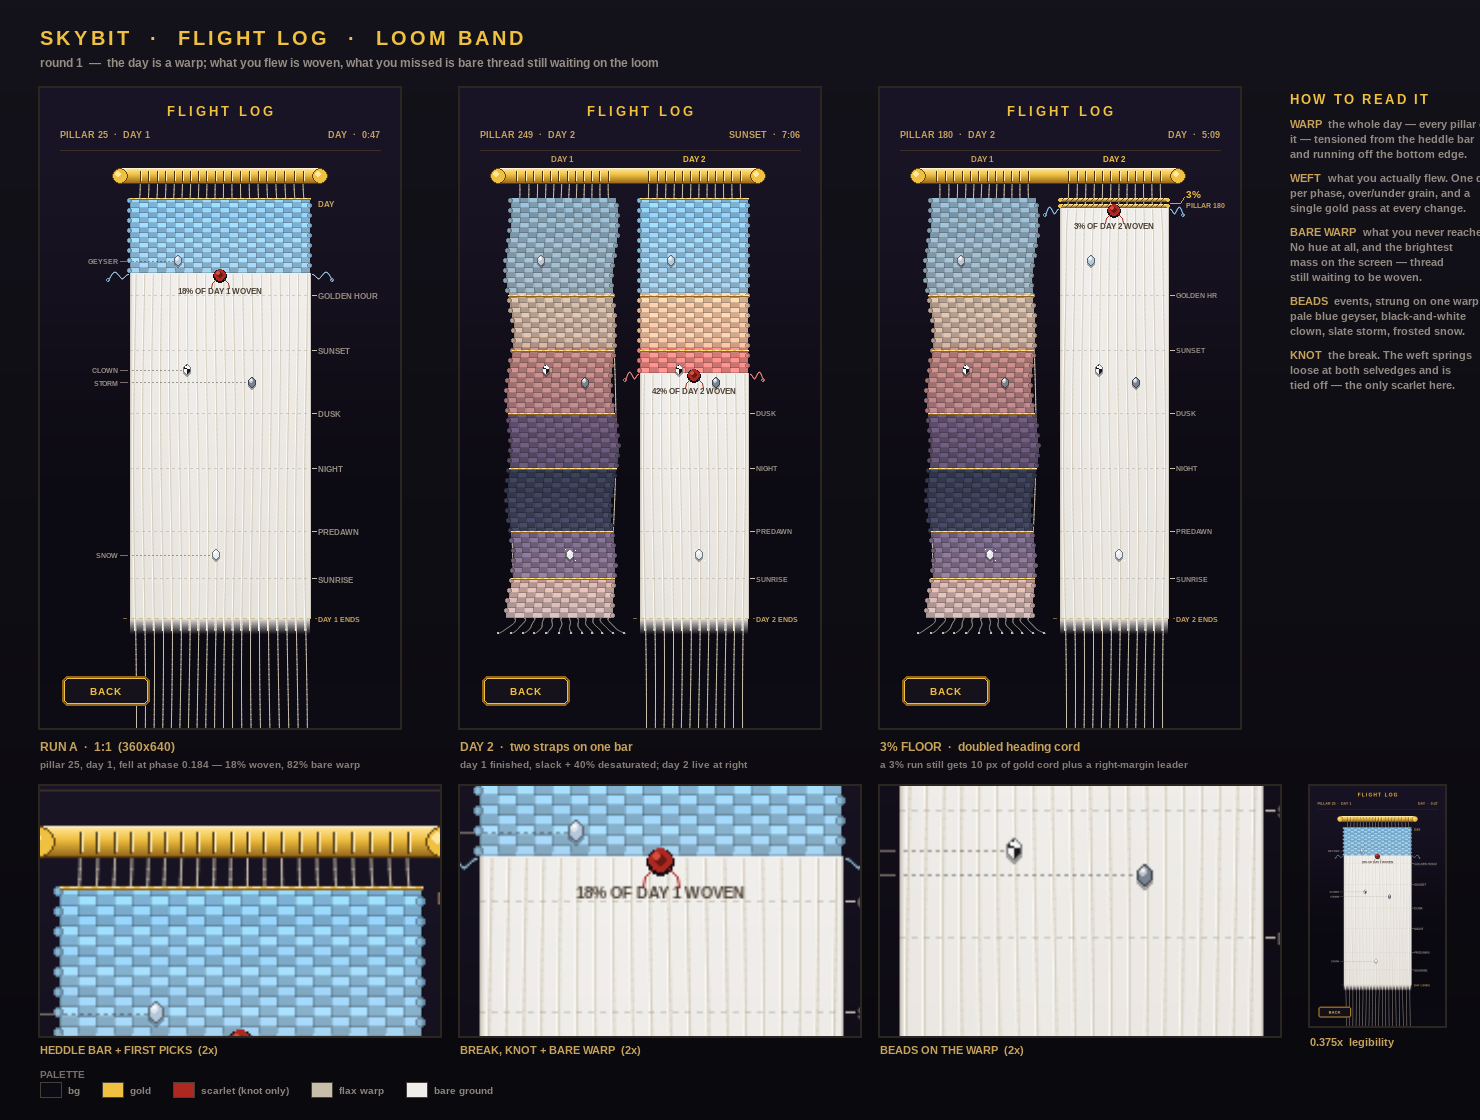
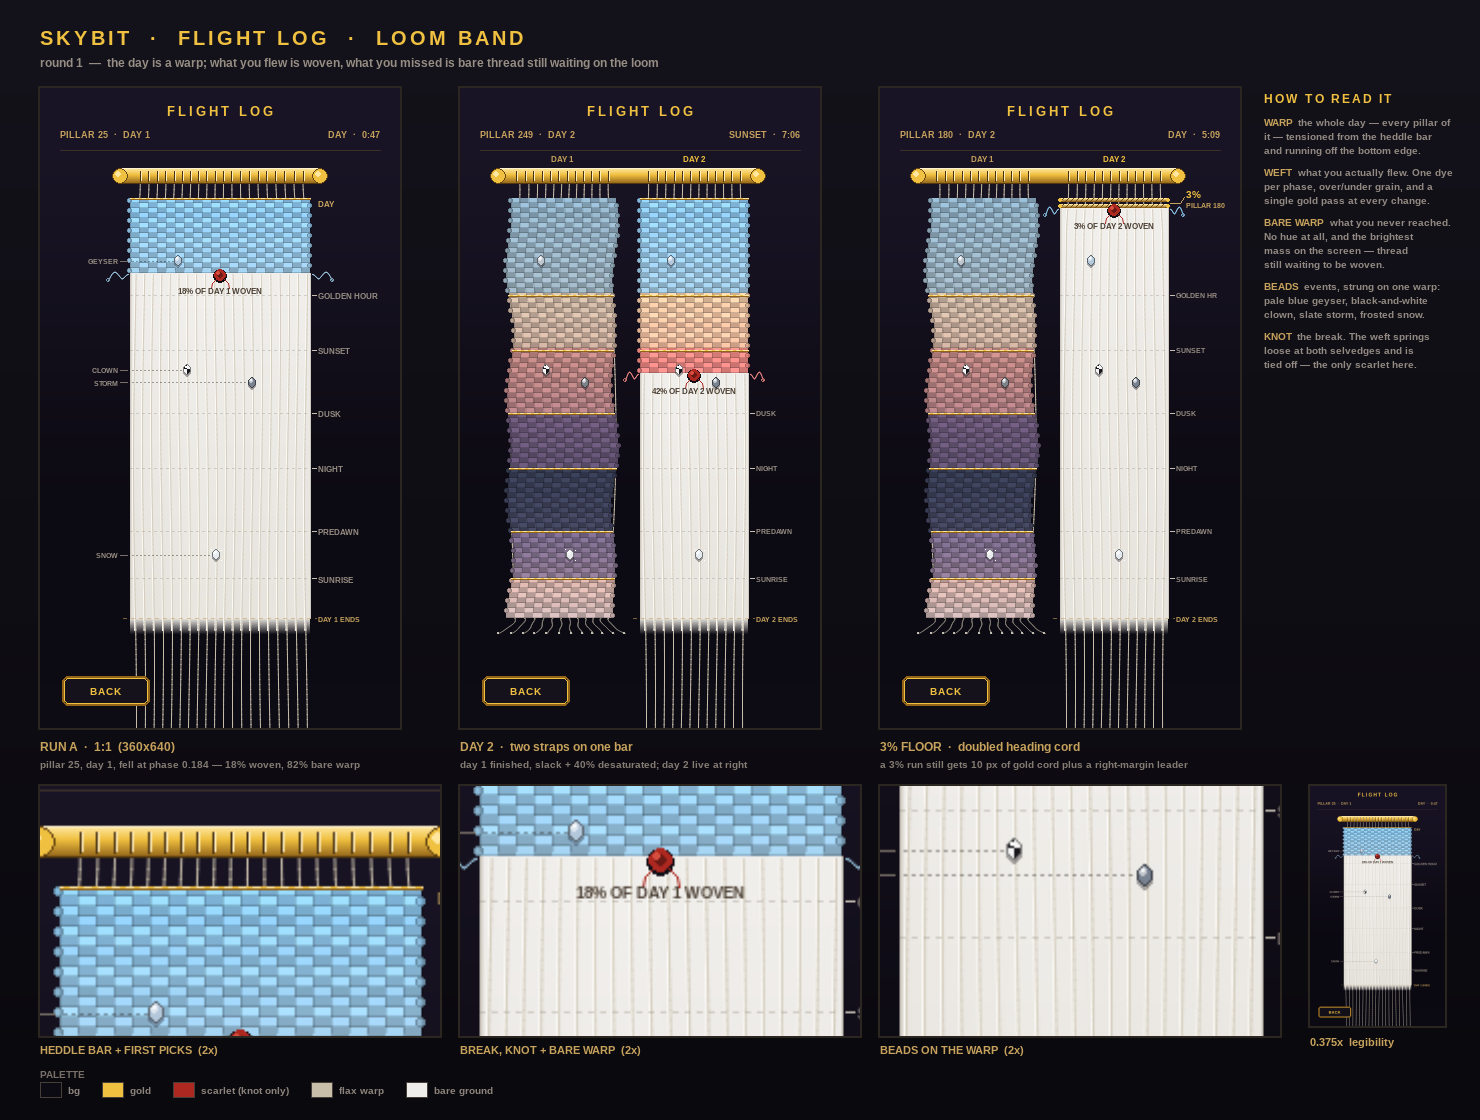
Flight log round 4: loom_band round_1
Claude-Session: https://claude.ai/code/session_01WbuBifdZt4BCNxLahVmLG9

Changed region(s): [[0.8392, 0.0625, 1.0, 0.3438]]

diff --git a/tools/render_flight_log_loom_band.py b/tools/render_flight_log_loom_band.py
@@ -70,8 +70,8 @@ BAR_Y0, BAR_Y1 = 80, 96
 WEAVE_TOP, WEAVE_BOT = 110, 530
 WEAVE_H = WEAVE_BOT - WEAVE_TOP
 ROW_H = 5
-WARP_PITCH = 9.0            # thread gauge is constant; narrow straps just hold fewer warps
-
+# Thread gauge is a constant 9 px on every strap — a narrower band holds fewer
+# warps, it does not hold thinner ones.
 STRAP_SOLO = dict(x0=90, x1=270, n=20)
 STRAP_D1 = dict(x0=48, x1=156, n=12)
 STRAP_D2 = dict(x0=180, x1=288, n=12)
@@ -100,11 +100,13 @@ EVENT_MARKERS = [
 EVENT_WARP_SOLO = {"GEYSER": 5, "CLOWN": 6, "STORM": 13, "SNOW": 9}
 EVENT_WARP_NARROW = {"GEYSER": 3, "CLOWN": 4, "STORM": 8, "SNOW": 6}
 
+# A day runs ~175 pillars for a steady flyer, which is what makes the day-2
+# mock runs land on pillar 249 (42% into day 2) and pillar 180 (3% into it).
 DAY_PILLARS = 175
 
 RUN_A = dict(phase=0.184, pillar=25, day=1, time="0:47")
-RUN_B = dict(phase=0.420, pillar=249, day=2, time="7:06")
-RUN_C = dict(phase=0.030, pillar=180, day=2, time="5:09")
+RUN_B = dict(phase=0.420, pillar=DAY_PILLARS + 74, day=2, time="7:06")
+RUN_C = dict(phase=0.030, pillar=DAY_PILLARS + 5, day=2, time="5:09")
 
 
 # ── colour helpers ───────────────────────────────────────────────────────────
@@ -724,19 +726,19 @@ def build_sheet():
         sheet.blit(img, (x, 786))
         text(sheet, title, 11, GOLD_MUTED, (x, 786 + img.get_height() + 8))
 
-    kx, ky = 1290, 92
-    text(sheet, "HOW TO READ IT", 13, GOLD, (kx, ky), track=2)
-    ky += 26
+    kx, ky = 1264, 92
+    text(sheet, "HOW TO READ IT", 12, GOLD, (kx, ky), track=2)
+    ky += 24
     for head, body in READING_KEY:
         if head == "":
-            ky += 9
+            ky += 8
             continue
         x = kx
         if head is not None:
-            r = text(sheet, head, 11, GOLD_MUTED, (x, ky))
-            x = r.right + 6
-        text(sheet, body, 11, (146, 138, 130), (x, ky))
-        ky += 15
+            r = text(sheet, head, 10, GOLD_MUTED, (x, ky))
+            x = r.right + 5
+        text(sheet, body, 10, (146, 138, 130), (x, ky))
+        ky += 14
 
     small = pygame.transform.smoothscale(hero, (135, 240))
     sx, sy = 1310, 786
